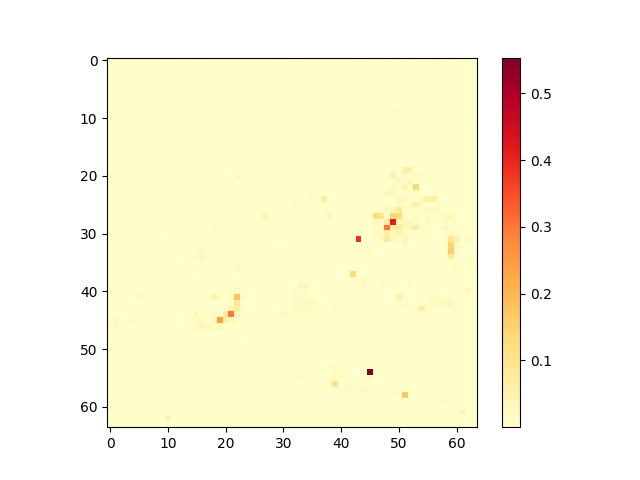
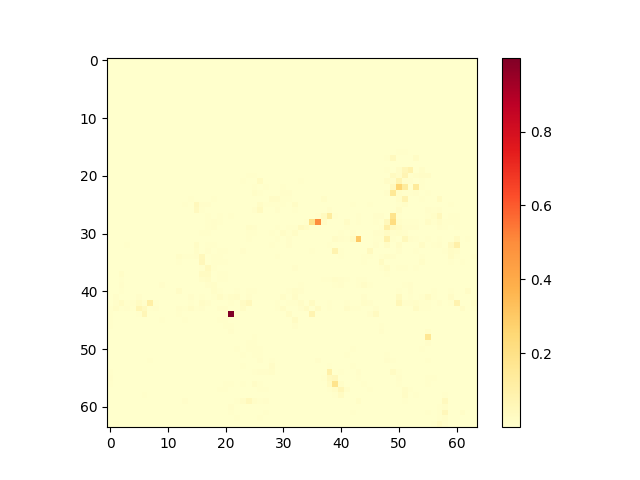
Experiment: Lambda [0.5, 1.0, 10.0, 20.0, 50.0, 100.0] with Reinforced Exclusivity

diff --git a/create_final_report.py b/create_final_report.py
@@ -3,7 +3,7 @@ import matplotlib.image as mpimg
 import os
 
 def create_final_report():
-    lambdas = ["100.0", "200.0", "300.0", "400.0", "500.0", "600.0"]
+    lambdas = ["0.5", "1.0", "10.0", "20.0", "50.0", "100.0"]
     # 6 rows (lambdas) x 5 columns (Img, Loss, MapA, MapB, Overlap)
     fig = plt.figure(figsize=(35, 42), facecolor='#ffffff')
     
